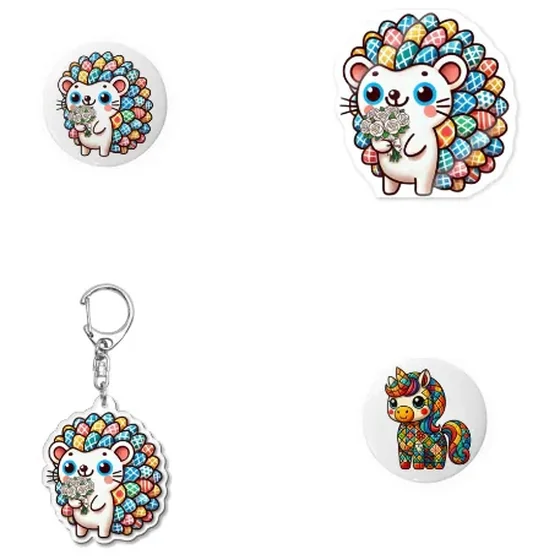
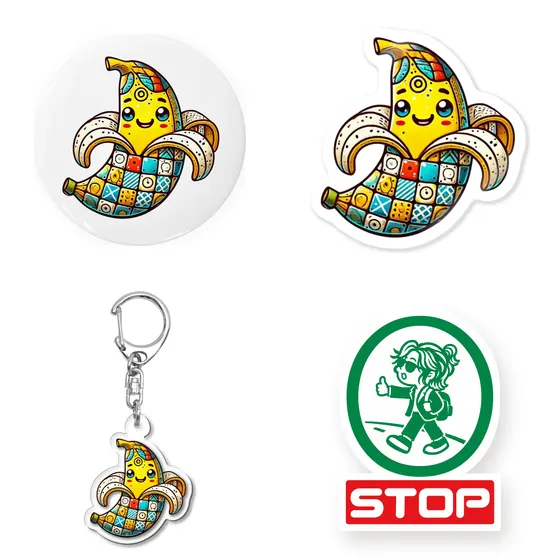
グッズの例を、向こう任せの切り抜きから自分で組む1枚に替えた
あやと（2026-10-09）「グッズの例はハリネズミじゃなくてバナナにして。
あと右下はSTOPのステッカーで。」

前の1枚は SUZURI が自分で作っている店の絵の右半分で、どれが写るかは
向こうが決めていた。切り方をいくら変えてもハリネズミのままなので、
商品1つずつの絵を取ってきて 2×2 に組む形にした。これで「どれを写すか」が
こちらの手に戻る。焼き直せるように、組むところは tools/goods/shopshot.py に
置いてある。

右下の STOP は島の持ち物で、店には並んでいない。あやとが右下に指定したので
置いているが、商品の写真3枚と並べると平らな絵だけ浮くので、ふちを付けて
ステッカーの形に抜いてから並べている。

値段も個数も品ぞろえも焼いていない。よその会社のマークも入らない。

Claude-Session: https://claude.ai/code/session_01LuEuARCBiX8w9R3CwPpCH6

diff --git a/site/content/goods.ts b/site/content/goods.ts
@@ -247,14 +247,27 @@ export const SUZURI = {
   /**
    * 店に並んでいるもの。**2枚以上。1枚だと、その1枚しか無い店に見える。**
    *
-   * 2枚目は SUZURI 自身が作っている店の絵（`og.suzuri.jp/users/2272949.webp`。
-   * 1200x630）の**右側だけ**を切ったもの（左上 669,102 ／ 右下 1126,559）。
-   * **左半分と、左上に出る印は切り落としてある**——よその会社のマークを
-   * 島の面に焼かない。
+   * 2枚目は**こちらで組んだ2×2**（`tools/goods/shopshot.py`）。
+   *
+   * 前は SUZURI 自身が作っている店の絵（`og.suzuri.jp/users/2272949.webp`）の
+   * 右半分を切って貼っていた。**どれが写るかは向こうが決める**ので、
+   * あやとの「グッズの例はハリネズミじゃなくてバナナにして。あと右下は
+   * STOP のステッカーで。」（2026-10-09）には、切り方では答えられなかった。
+   * いまは商品1つずつの絵を取って並べているので、**どれを写すかは
+   * こちらの手にある。** よその会社のマークも、そもそも入らない絵を取っている。
+   *
+   * 右下の STOP だけは島の持ち物（`STICKERS` の3枚目と同じ絵）で、
+   * **店には並んでいない。** あやとが右下に指定したので、ここに置いてある。
    */
   shots: [
     { src: "/goods/suzuri-tote.webp", alt: "イギリスの地図が入ったトートバッグ", w: 560, h: 560 },
-    { src: "/goods/suzuri-goods.webp", alt: "キャラクターの缶バッジ・ステッカー・アクリルキーホルダー", w: 560, h: 560 },
+    {
+      src: "/goods/suzuri-goods.webp",
+      /* **写っているものだけを言う。** 品ぞろえも値段も数えない */
+      alt: "バナナのキャラクターの缶バッジ・ステッカー・アクリルキーホルダーと、STOP のステッカー",
+      w: 560,
+      h: 560,
+    },
   ] satisfies ShopShot[],
   /** 札の題。**商品ではなく、店そのもの** */
   cap: "あやとの店",

diff --git a/tools/goods/shopshot.py b/tools/goods/shopshot.py
@@ -1,0 +1,229 @@
+"""SUZURI の札に並べる「商品の例」の1枚を焼く。
+
+    python3 tools/goods/shopshot.py           # 焼いて site/public/goods/suzuri-goods.webp に置く
+    python3 tools/goods/shopshot.py --out /tmp/x.webp   # 置き先を変えて試す
+
+## なぜ自前で焼くのか
+
+前は SUZURI が自分で作っている店の絵（`og.suzuri.jp/users/2272949.webp`）の
+右半分を切って貼っていた。**どれが写るかは向こうが決める**ので、
+あやとが「バナナにして」と言っても、こちらでは選べなかった。
+
+あやとの言葉（2026-10-09）:
+
+> グッズの例はハリネズミじゃなくてバナナにして。あと右下はSTOPのステッカーで。
+
+なので、商品1つずつの絵を取ってきて、こちらで2×2に組む。
+**どれを写すかが、こちらの手に戻る。**
+
+## 字も値段も焼かない
+
+焼くのは**商品の絵だけ**。値段・個数・品ぞろえは向こうが持っていて、
+焼くと変わった日から嘘になる（`site/content/goods.ts` の `SUZURI`）。
+**よその会社のマークも焼かない**——元の店の絵は左上に SUZURI の印を
+持っていたので、それを避けるために右半分を切っていた。1つずつ取れば、
+そもそも印の入っていない絵が手に入る。
+
+## 元絵のありか
+
+商品の絵は `lens.suzuri.jp` が出している。URL は商品の面
+（`https://suzuri.jp/ayato_arigato/<商品id>/<品目>/<寸法>/<色>`）の HTML に
+そのまま書いてある。**API は鍵が要る**ので使わない（持っていない）。
+
+商品 id は店の検索から引いた（`https://suzuri.jp/search?q=ayato_arigato`）。
+店の一覧は JS で描かれるので HTML には出てこないが、検索の結果には出る。
+バナナ（「カサ・アヤトの住人 🍌」）は **17392036**。
+
+**`h=` は向こうが付けた署名で、こちらでは作れない。** 絵を差し替えたり
+品目を足したりするときは、商品の面の HTML から取り直す:
+
+    curl -sL https://suzuri.jp/ayato_arigato/17392036/sticker/m/white \\
+      | grep -oE 'https://lens\\.suzuri\\.jp/v3/1024x1024/[^"]+'
+
+## 右下だけは、島の持ち物
+
+右下の「STOP」は `site/public/goods/ayato-sticker.jpg`。あやとが描いた絵で、
+島では無料で配っている（`goods.ts` の `STICKERS`）。**元絵は白地の平らな絵**
+なので、ほかの3枚（商品の写真）とそのまま並べると1枚だけ別の世界のものに
+見える。だから、ここで**ふちを付けてステッカーの形に抜いてから**並べる。
+輪と STOP の札は 21px しか離れていないので、太らせれば1枚につながる。
+
+## 大きさと重さ
+
+560x560 / webp q78 で 33KB 前後。画面に出るのは 176 CSS px（390px のスマホ）
+なので、dpr3 でちょうど足りる。**ここを大きくしても画面では1画素も変わらない。**
+"""
+
+import argparse
+import pathlib
+import subprocess
+import sys
+
+from PIL import Image, ImageChops, ImageDraw, ImageFilter, ImageOps
+
+ROOT = pathlib.Path(__file__).resolve().parents[2]
+DEST = ROOT / "site/public/goods/suzuri-goods.webp"
+STOP_ART = ROOT / "site/public/goods/ayato-sticker.jpg"
+
+SIDE = 560
+CELL = SIDE // 2
+
+# 商品3つ。**並びは左上→右上→左下**で、右下には STOP が入る。
+# `box` は、そのマスの中で絵を何px角に収めるか。品目ごとに形が違うので
+# （缶バッジは丸、キーホルダーは輪のぶん縦に長い）、同じ数にすると
+# 見た目の重さが揃わない。**揃えるのは箱ではなく、見えかたのほう。**
+SHOTS = [
+    (
+        "badge",
+        "https://lens.suzuri.jp/v3/1024x1024/can-badge/75mm/white/front/17392036/"
+        "1741912868-1024x1024.png.1.5305+0.0-0.0107.webp"
+        "?h=50671b2ce8122df0402a0d43a0d1ca1126ec4b36&printed=true",
+        212,
+    ),
+    (
+        "sticker",
+        "https://lens.suzuri.jp/v3/1024x1024/sticker/m/white/front/17392036/"
+        "1741912868-1024x1024.png.webp"
+        "?h=dad684f59fbe000f6ca41bceea77243f953beab7&printed=true",
+        226,
+    ),
+    (
+        "key",
+        "https://lens.suzuri.jp/v3/1024x1024/acrylic-keychain/50x50mm/clear/front/17392036/"
+        "1741912868-1024x1024.png.0.8074+0.0+0.0.webp"
+        "?h=ca29f464492ba85e4cb38ada5bace8ad456b5b74&printed=true",
+        258,
+    ),
+]
+STOP_BOX = 222
+
+
+def fetch(url: str, dest: pathlib.Path) -> pathlib.Path:
+    """**curl で取る。** この箱のブラウザは外へ出られないが、curl は出られる。
+
+    `-f` を付ける。付けないと 4xx でも 0 で終わって、エラーの HTML を
+    絵として掴む（`tools/sprites/prod.mjs` が同じところで1度転んでいる）。
+    """
+    subprocess.run(
+        ["curl", "-fsSL", "--retry", "3", "--max-time", "40", "-o", str(dest), url],
+        check=True,
+    )
+    return dest
+
+
+def ink(rgb: Image.Image, thr: int) -> Image.Image:
+    """絵のあるところだけを白く返す。
+
+    **明るさだけで見ない。** バナナの黄色は明るいので、暗さだけで判定すると
+    地と見分けが付かず、絵の上半分を切り落とす。色の付き具合（RGB の幅）も
+    合わせて見る。
+    """
+    dark = rgb.convert("L").point(lambda v: 255 if v < thr else 0)
+    r, g, b = rgb.split()
+    hi = ImageChops.lighter(ImageChops.lighter(r, g), b)
+    lo = ImageChops.darker(ImageChops.darker(r, g), b)
+    tint = ImageChops.difference(hi, lo).point(lambda v: 255 if v > 12 else 0)
+    return ImageChops.lighter(dark, tint)
+
+
+def trim(im: Image.Image, thr: int = 246):
+    """白地を落として、絵のあるところだけ返す（絵と、その形）。"""
+    rgb = im.convert("RGB")
+    m = ink(rgb, thr)
+    bb = m.getbbox()
+    return im.convert("RGBA").crop(bb), m.crop(bb)
+
+
+def diecut(im: Image.Image, pad: int = 22, thr: int = 238):
+    """白地の平らな絵を、ふち付きのステッカーの形に抜く。
+
+    太らせて（離れた形をつなげて）→ 内側の穴を埋めて（輪の中も
+    ステッカーの地として白く残す）→ その形で元絵を抜く、の順。
+    """
+    rgb = im.convert("RGB")
+    m = ink(rgb, thr)
+    bb = m.getbbox()
+    rgb, m = rgb.crop(bb), m.crop(bb)
+
+    w, h = rgb.size
+    sheet = Image.new("RGB", (w + pad * 4, h + pad * 4), "white")
+    sheet.paste(rgb, (pad * 2, pad * 2))
+    shape = Image.new("L", sheet.size, 0)
+    shape.paste(m, (pad * 2, pad * 2))
+
+    # MaxFilter は1回で (size-1)/2 px しか太らない。重ねて pad px まで運ぶ。
+    grown = shape
+    for _ in range(5):
+        grown = grown.filter(ImageFilter.MaxFilter(9))
+    for _ in range(pad // 2):
+        grown = grown.filter(ImageFilter.MaxFilter(5))
+
+    # 穴を埋める。外から塗りつぶして、残ったところが穴。
+    inv = ImageOps.invert(grown)
+    ImageDraw.floodfill(inv, (0, 0), 0)
+    grown = ImageChops.lighter(grown, inv)
+    # 太らせた形は角が立つので、ぼかして閾値で戻して丸める
+    grown = grown.filter(ImageFilter.GaussianBlur(1.2)).point(lambda v: 255 if v > 110 else 0)
+
+    out = Image.new("RGBA", sheet.size, (0, 0, 0, 0))
+    out.paste(sheet.convert("RGBA"), (0, 0), grown)
+    bb2 = grown.getbbox()
+    return out.crop(bb2), grown.crop(bb2)
+
+
+def drop(size, mask, dx=6, dy=10, blur=9, alpha=52):
+    """落ち影。**ほかの3枚（商品の写真）には影が入っている**ので、
+    抜いただけの STOP を並べると、そこだけ地に貼り付いて見える。"""
+    lay = Image.new("L", size, 0)
+    lay.paste(mask, (dx, dy))
+    lay = lay.filter(ImageFilter.GaussianBlur(blur)).point(lambda v: int(v * alpha / 255))
+    sh = Image.new("RGBA", size, (70, 60, 50, 0))
+    sh.putalpha(lay)
+    return sh
+
+
+def place(canvas, art, mask, cx, cy, box, shadow=False):
+    w, h = art.size
+    s = min(box / w, box / h)
+    nw, nh = max(1, round(w * s)), max(1, round(h * s))
+    a = art.resize((nw, nh), Image.LANCZOS)
+    m = mask.resize((nw, nh), Image.LANCZOS)
+    x, y = round(cx - nw / 2), round(cy - nh / 2)
+    if shadow:
+        pad = 40
+        sh = drop((nw + pad * 2, nh + pad * 2), m.crop((-pad, -pad, nw + pad, nh + pad)))
+        canvas.alpha_composite(sh, (x - pad, y - pad))
+    canvas.alpha_composite(a, (x, y))
+
+
+def main() -> int:
+    ap = argparse.ArgumentParser()
+    ap.add_argument("--out", default=str(DEST))
+    ap.add_argument("--src", default="/tmp/suzuri-shots", help="落としてきた元絵の置き場")
+    args = ap.parse_args()
+
+    src = pathlib.Path(args.src)
+    src.mkdir(parents=True, exist_ok=True)
+
+    canvas = Image.new("RGBA", (SIDE, SIDE), (255, 255, 255, 255))
+    q = CELL / 2
+    spots = [(q, q), (CELL + q, q), (q, CELL + q)]
+    for (name, url, box), (cx, cy) in zip(SHOTS, spots):
+        f = src / f"{name}.webp"
+        if not f.exists():
+            fetch(url, f)
+        art, mask = trim(Image.open(f))
+        place(canvas, art, mask, cx, cy, box)
+
+    art, mask = diecut(Image.open(STOP_ART))
+    place(canvas, art, mask, CELL + q, CELL + q, STOP_BOX, shadow=True)
+
+    out = pathlib.Path(args.out)
+    out.parent.mkdir(parents=True, exist_ok=True)
+    canvas.convert("RGB").save(out, "WEBP", quality=78, method=6)
+    print(f"{out} {out.stat().st_size} bytes")
+    return 0
+
+
+if __name__ == "__main__":
+    sys.exit(main())
